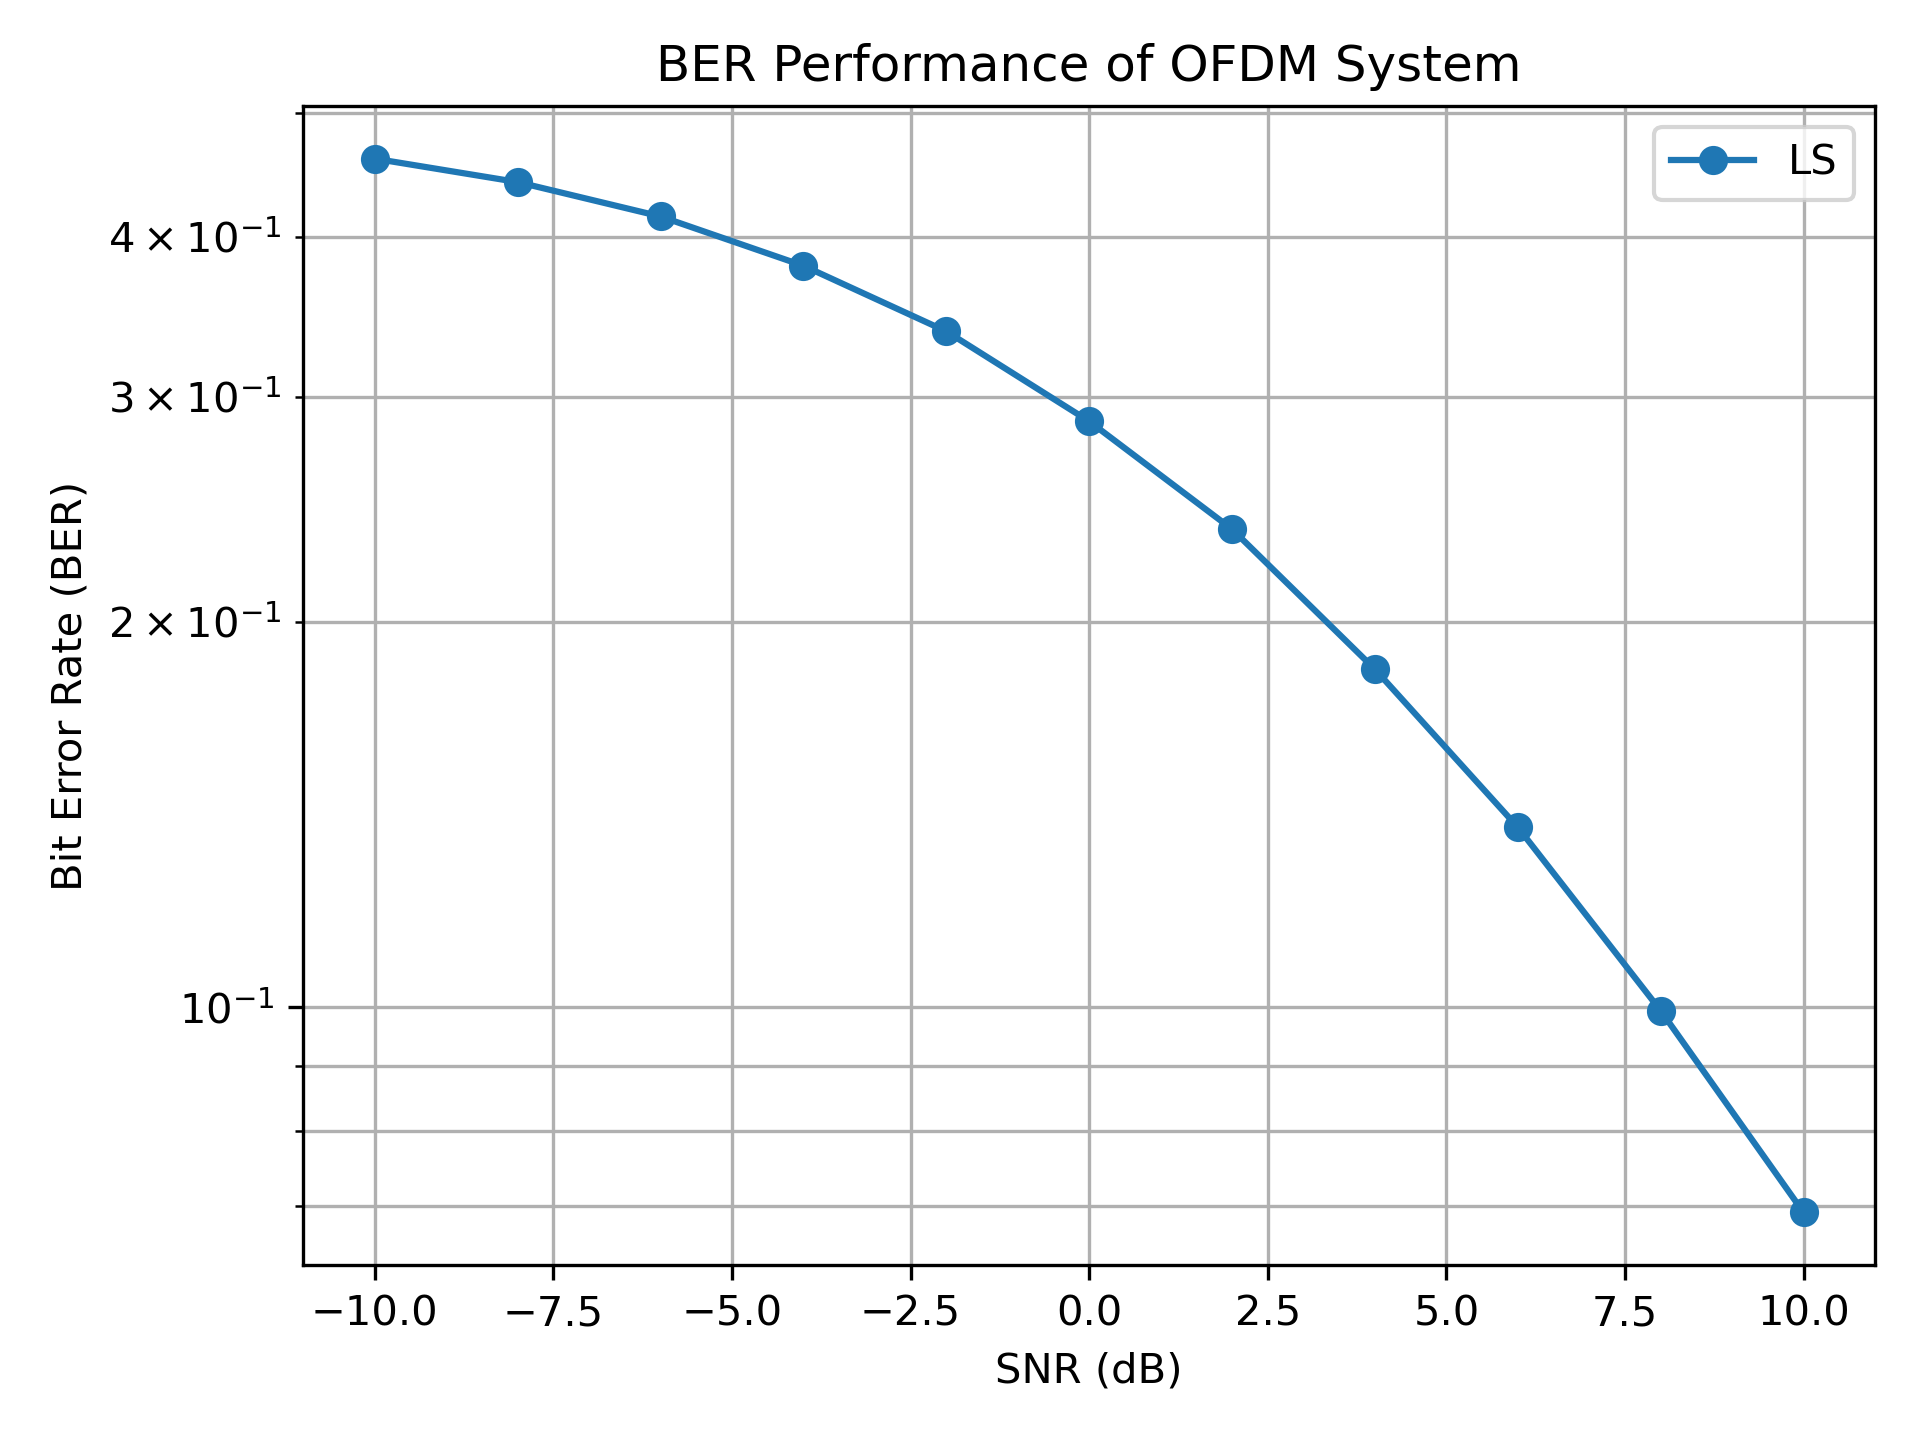
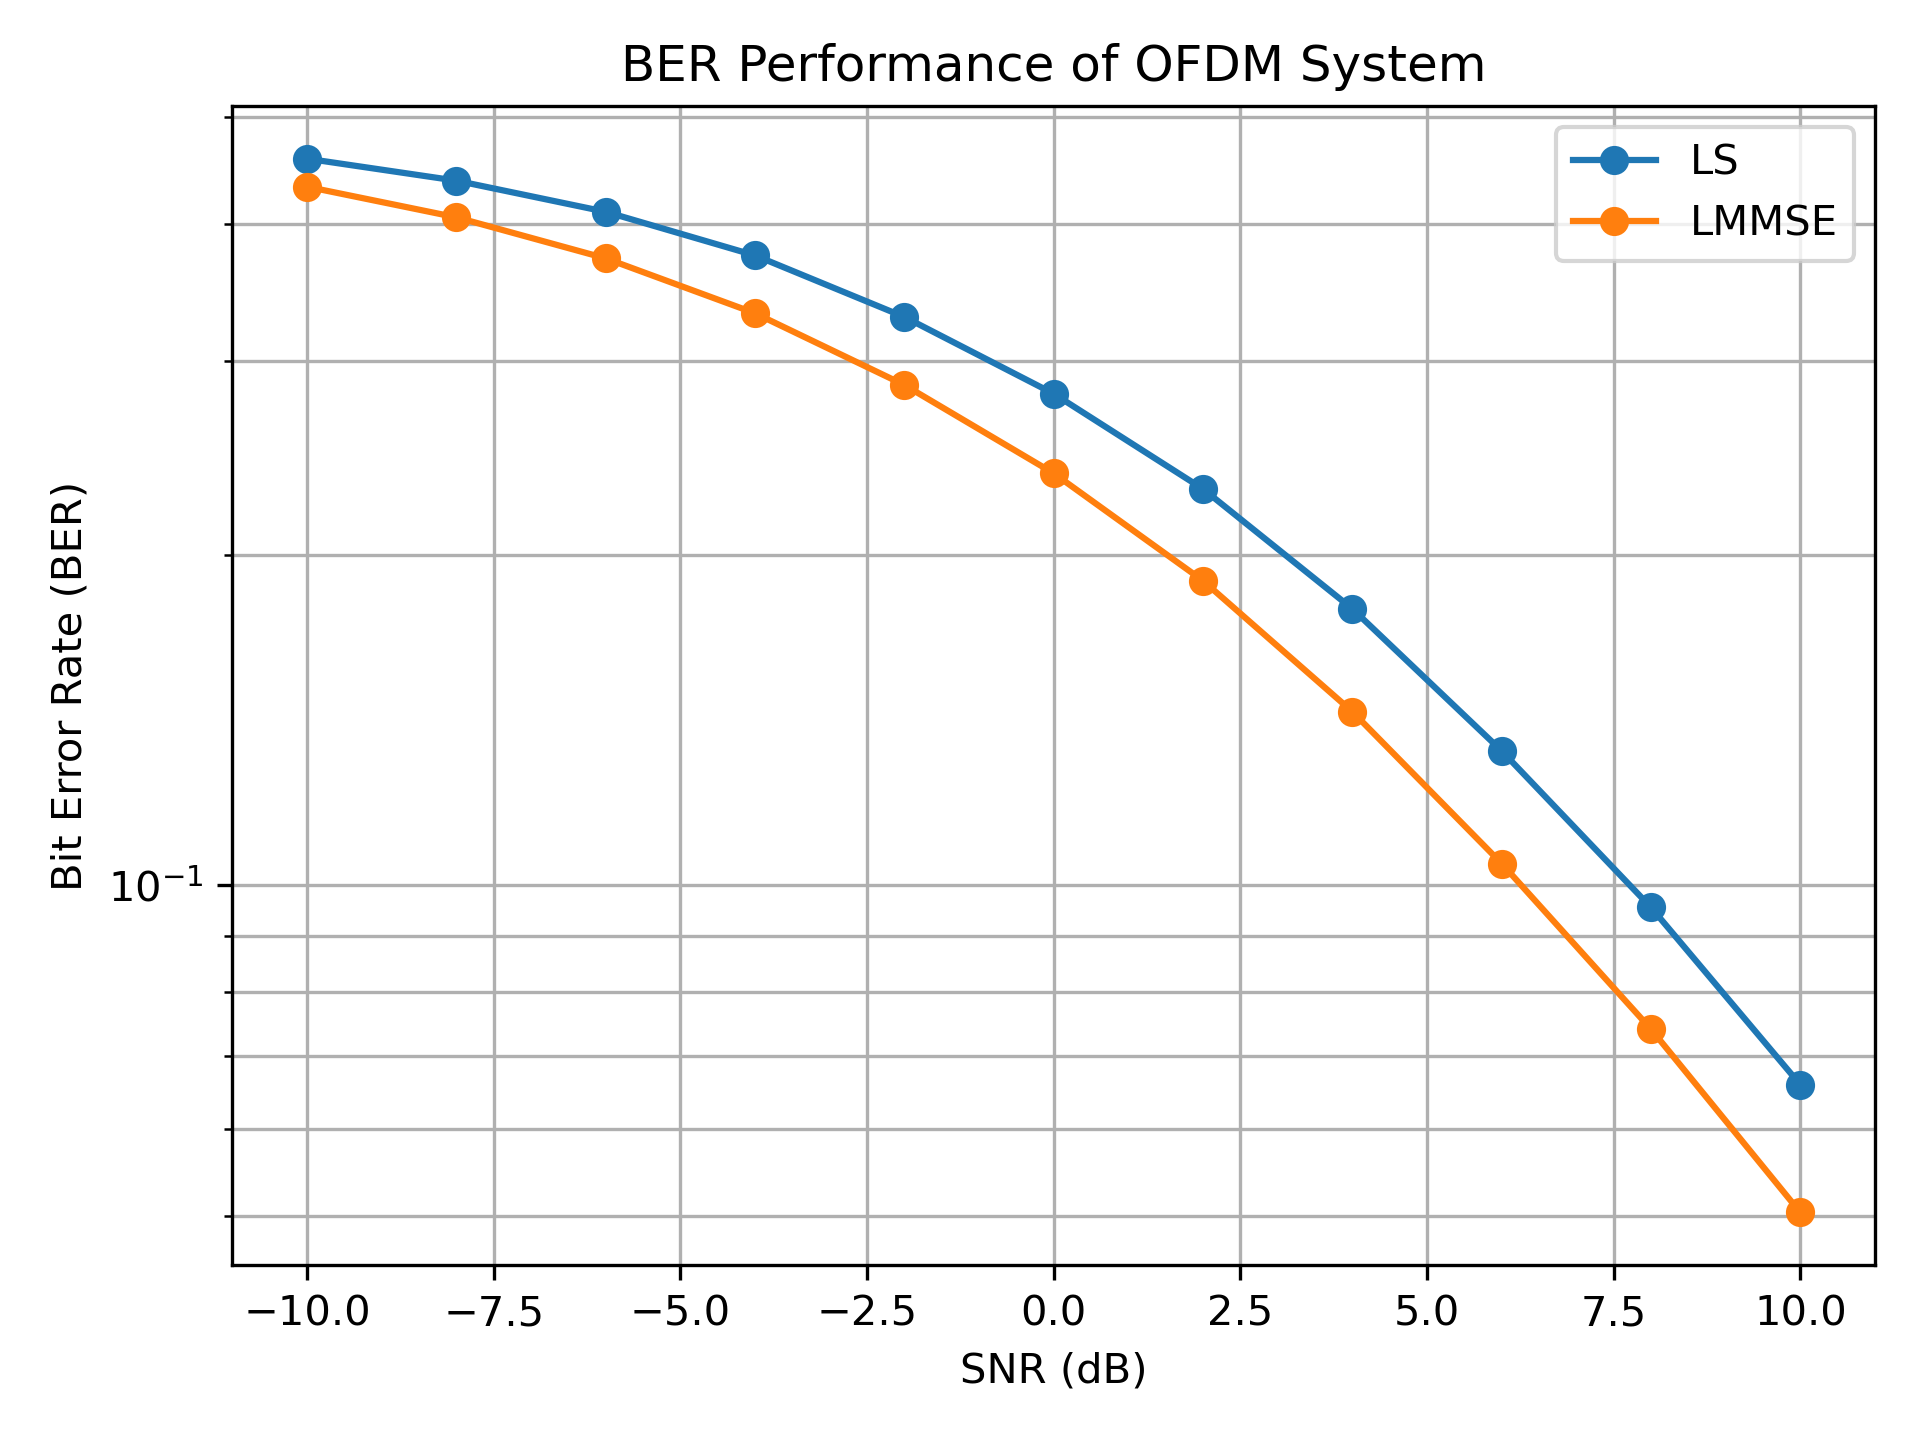
add compare results with LMMSE

diff --git a/E2E_OFDM/main.py b/E2E_OFDM/main.py
@@ -14,9 +14,9 @@ if __name__ == '__main__':
     class OFDMconfig:
         NumSubCarrier: int = 64
         TotalNumBlock: int = 10000
-        NumPilotPerBlock: int = 16
+        NumPilotPerBlock: int = 32
         QAMModulation: QAM_MODULATION = QAM_MODULATION.QPSK_GRAY
-        LengthCP: int = 4
+        LengthCP: int = 8
         SNR: np.ndarray = np.arange(-10,11,2)
         BlockConfiguration: BlockConfig = BlockConfig(
             NumSubCarrier = NumSubCarrier, 
@@ -26,7 +26,7 @@ if __name__ == '__main__':
         )
         ChannelBlockConfig = ChannelConfig(
             Model = CHANNEL_MODEL.RAYLEIGH,
-            NumTap = 3,
+            NumTap = 5,
             RegenChannel = 5
         )
         Estimator: CHANNEL_ESTIMATOR = CHANNEL_ESTIMATOR.LS
@@ -53,12 +53,13 @@ if __name__ == '__main__':
 
         def process(self, OFDMSymbols: np.ndarray, OFDMconfig) -> tuple:
             ChannelOutput = self.ChannelGenerator.process(OFDMSymbols, OFDMconfig.NumSubCarrier)
-            ChannelsFreq = self.ChannelGenerator.Channels_feq
             ReceivedSignals = []
             for snr in OFDMconfig.SNR:
                 ReceivedSignals.append(self.NoiseMixer.process(ChannelOutput, snr))
             ReceivedSignals = np.stack(ReceivedSignals, axis=0)
-            return ReceivedSignals, ChannelsFreq
+            OFDMconfig.VarNoises = np.stack(self.NoiseMixer.VarNoises, axis=0)
+            OFDMconfig.ChannelsFreqDomain = self.ChannelGenerator.Channels_feq
+            return ReceivedSignals, OFDMconfig
         
     class Receiver():
         def __init__(self, config) -> None:
@@ -78,7 +79,12 @@ if __name__ == '__main__':
                 # Channel Estimation #
                 ReceivedPilots = np.where(PilotIndices, ReceivedSymbols, 0)
                 TransmittedPilots = np.where(PilotIndices, OFDMconfig.TransmittedSymbols, 0)
-                EstimatedChannel = self.ChannelEstimator.process(ReceivedPilots, TransmittedPilots)
+                metadata = {
+                    "VarNoise": OFDMconfig.VarNoises[snr_ind],
+                    "ChannelsFreqDomain": OFDMconfig.ChannelsFreqDomain,
+                    "LengthCP": OFDMconfig.LengthCP
+                }
+                EstimatedChannel = self.ChannelEstimator.process(ReceivedPilots, TransmittedPilots, metadata)
                 EstimatedChannel = self.ChannelInterpolator.process(EstimatedChannel)
                 EstimatedChannels.append(EstimatedChannel)
                 # Equalization #
@@ -104,13 +110,13 @@ if __name__ == '__main__':
             logging.info("Initialize OFDM system")
             OFDMSymbols, DataBits, config = self.Transmitter.process(self.OFDMconfig)
             logging.info("Transmitted signals")
-            ReceivedSignals, ChannelFreqDomain = self.ChannelBlock.process(OFDMSymbols, config)
+            ReceivedSignals, config = self.ChannelBlock.process(OFDMSymbols, config)
             logging.info("Received signals and start recovering signal")
             EstimatedBits, EstimatedChannels = self.Receiver.process(ReceivedSignals, config)
 
             # Duplicate for each SNR
             DataBits = np.tile(DataBits, (len(self.OFDMconfig.SNR),1,1))
-            ChannelFreqDomain = np.tile(ChannelFreqDomain, (len(self.OFDMconfig.SNR),1,1))
+            ChannelFreqDomain = np.tile(config.ChannelsFreqDomain, (len(self.OFDMconfig.SNR),1,1))
 
             EstimatedData = ExperimentData(
                 Bits=EstimatedBits, 
@@ -121,10 +127,38 @@ if __name__ == '__main__':
                 Channel=ChannelFreqDomain
             )
             results = self.Evaluater.process(EstimatedData, GroundTruthData)
+            return results
 
-            logging.info("Visualizing results")
-            self.Plotter.plot_BER(self.OFDMconfig.SNR, results.BER, save_fig_name='results/BER.png')            
-            self.Plotter.plot_NMSE(self.OFDMconfig.SNR, results.ChannelNMSE, save_fig_name='results/NMSE.png')            
+    totalconfig = [
+        OFDMconfig(Estimator=CHANNEL_ESTIMATOR.LS),
+        OFDMconfig(Estimator=CHANNEL_ESTIMATOR.LMMSE)
+    ]
 
-    system = OFDMSystem(OFDMconfig)
-    system.run()
+    BERs = []
+    NMSEs = []
+    for k in range(len(totalconfig)):
+        system = OFDMSystem(totalconfig[k])
+        result = system.run()
+        BERs.append(result.BER)
+        NMSEs.append(result.ChannelNMSE)
+
+    MergedResults = {
+        "BERs": np.stack(BERs, axis=0),
+        "ChannelNMSEs": np.stack(NMSEs, axis=0)
+    }
+
+    logging.info("Visualizing results")
+    CurvesPlotter = Plotter()
+    labels = ["LS", "LMMSE"]
+    CurvesPlotter.plot_BER(
+        SNR=OFDMconfig.SNR, 
+        BER=MergedResults["BERs"], 
+        label=labels,
+        save_fig_name='results/BER.png'
+    )
+    CurvesPlotter.plot_NMSE(
+        SNR=OFDMconfig.SNR, 
+        NMSE=MergedResults["ChannelNMSEs"], 
+        label=labels,
+        save_fig_name='results/NMSE.png'
+    )            

diff --git a/E2E_OFDM/Channels.py b/E2E_OFDM/Channels.py
@@ -24,12 +24,16 @@ class Channel(ABC):
         ...
 
 class NoiseMixer():
+    def __init__(self) -> None:
+        self.VarNoises = []
+
     def process(self, signal: np.ndarray, SNR: float) -> np.ndarray:
         SNRlinear = 10 ** (SNR / 10)
         SignalPower = np.mean(np.abs(signal) ** 2, axis=0)
         NoisePower = SignalPower / SNRlinear
         Noise = np.dot((np.random.randn(signal.shape[0], signal.shape[1]) + 1j * np.random.randn(signal.shape[0], signal.shape[1])), np.diag(np.sqrt(NoisePower / 2)))
         self.Noise = Noise
+        self.VarNoises.append(np.diag(NoisePower))
         ChannelOutput = signal + Noise
         return ChannelOutput
 
@@ -66,32 +70,11 @@ class AWGNChannel(Channel):
         ChannelOutput = signal
         return ChannelOutput
     
-class AWGNChannelStandAlone(Channel):
-    def __init__(self):
-        super().__init__()
-        self.Channels = np.ndarray(1)
-        self.NoiseGenerator = NoiseMixer()
-
-    def process(self, signal: np.ndarray, SNR: float) -> np.ndarray:
-        ChannelOutput, Noise = self.NoiseGenerator.process(signal, SNR)
-        return ChannelOutput
-    
-# class NoDistortionChannel(Channel):
-#     def __init__(self):
-#         super().__init__()
-#         self.Channel = np.ndarray(1)
-
-#     def process(self, signal: np.ndarray) -> np.ndarray:
-#         ChannelOutput = signal
-#         return ChannelOutput
-    
 def SelectChannelModel(config: ChannelConfig) -> Channel:
     if config.Model == CHANNEL_MODEL.RAYLEIGH: 
         return RayleighChannel(config)
     elif config.Model == CHANNEL_MODEL.AWGN: 
-        return AWGNChannel()  # Noise will be added later
-    # elif config.Model == CHANNEL_MODEL.NODISTORTION: 
-    #     return NoDistortionChannel()
+        return AWGNChannel() 
     else: raise ValueError("Unsuport channel model")
 
 if __name__ == '__main__':

diff --git a/E2E_OFDM/ChannelEstimators.py b/E2E_OFDM/ChannelEstimators.py
@@ -10,12 +10,12 @@ class CHANNEL_ESTIMATOR(Enum):
 class Estimator(ABC):
 
     @abstractmethod
-    def process(self, Rxsignal: np.ndarray, pilot: np.ndarray) -> np.ndarray:
+    def process(self, Rxsignal: np.ndarray, pilot: np.ndarray, metadata) -> np.ndarray:
         ...
     
 class LSEstimator(Estimator):
 
-    def process(self, RxSignal: np.ndarray, Pilot: np.ndarray) -> np.ndarray:
+    def process(self, RxSignal: np.ndarray, Pilot: np.ndarray, metadata) -> np.ndarray:
         
         # A = Pilot
         # temp = torch.linalg.pinv(torch.conj(A.T) @ A) @ torch.conj(A.T)
@@ -41,10 +41,23 @@ class LSEstimator(Estimator):
         return EstimatedChannel
     
 class LMMSEEstimator(Estimator):
-    def process(self, RxSignal: np.ndarray, Pilot: np.ndarray) -> np.ndarray:
-        a = 2
+    def process(self, RxSignal: np.ndarray, Pilot: np.ndarray, metadata) -> np.ndarray:
+        LengthCP = metadata["LengthCP"]
+        VarNoise = metadata["VarNoise"]
+        ActualChan = metadata["ChannelsFreqDomain"]
+        ActualChan = ActualChan[:, :, np.newaxis]
+        Pilot = Pilot[:, :, np.newaxis] * np.eye(Pilot.shape[1])
 
-        EstimatedChannel = RxSignal + Pilot   # to be edited
+        mean_h = np.mean(ActualChan, axis=0)
+        R_hh = np.mean(ActualChan @ np.transpose(ActualChan,(0,2,1)).conj(), axis=0)
+        NoisePower = VarNoise[LengthCP:LengthCP+RxSignal.shape[1],LengthCP:LengthCP+RxSignal.shape[1]]
+
+        EstimatedChannel = np.zeros_like(RxSignal, dtype=complex)
+        for i in range(RxSignal.shape[0]):
+            X = Pilot[i]
+            y = RxSignal[i].reshape(-1,1)
+            THISEstimatedChannel = mean_h + R_hh @ X.conj().T @ np.linalg.inv(X @ R_hh @ X.conj().T + NoisePower) @ (y - X @ mean_h)
+            EstimatedChannel[i] = THISEstimatedChannel.reshape(-1)
         return EstimatedChannel
 
 

diff --git a/E2E_OFDM/util.py b/E2E_OFDM/util.py
@@ -2,11 +2,11 @@ import logging
 import matplotlib.pyplot as plt
 
 class Plotter():
-    def plot_BER(self, SNR, BER, save_fig_name):
+    def plot_BER(self, SNR, BER, label, save_fig_name):
         plt.figure()
 
-        plt.plot(SNR, BER, marker='o', label='LS')
-        # plt.plot(snr_list, ber_lmmse, marker='s', label='LMMSE')
+        for i in range(len(label)):
+            plt.plot(SNR, BER[i], marker='o', label=label[i])
 
         plt.yscale('log')
         plt.xlabel('SNR (dB)')
@@ -14,23 +14,23 @@ class Plotter():
         plt.title('BER Performance of OFDM System')
 
         plt.grid(True, which='both')
-        plt.legend(['LS'])
+        plt.legend(label)
         plt.tight_layout()
 
         plt.savefig(save_fig_name, dpi=300)
 
-    def plot_NMSE(self, SNR, NMSE, save_fig_name):
+    def plot_NMSE(self, SNR, NMSE, label, save_fig_name):
         plt.figure()
 
-        plt.plot(SNR, NMSE, marker='o', label='LS')
-        # plt.plot(snr_list, nmse_lmmse, marker='s', label='LMMSE')
+        for i in range(len(label)):
+            plt.plot(SNR, NMSE[i], marker='o', label=label[i])
 
         plt.xlabel('SNR (dB)')
         plt.ylabel('NMSE (dB)')
         plt.title('Channel Estimation NMSE')
 
         plt.grid(True)
-        plt.legend(['LS'])
+        plt.legend(label)
         plt.tight_layout()
 
         plt.savefig(save_fig_name, dpi=300)

diff --git a/E2E_OFDM/EvaluationMetric.py b/E2E_OFDM/EvaluationMetric.py
@@ -1,12 +1,11 @@
 import numpy as np
 from abc import ABC, abstractmethod
 from dataclasses import dataclass
-from typing import Optional
 
 @dataclass
 class EvaluationResults:
-    BER: Optional[np.ndarray] = None
-    ChannelNMSE: Optional[np.ndarray] = None
+    BER: np.ndarray
+    ChannelNMSE: np.ndarray
 
 @dataclass
 class ExperimentData:
@@ -46,8 +45,9 @@ class TotalEvaluators:
             TotalBER.append(BER_)
             TotalChannelNMSE.append(ChannelNMSE_)
         
-        results = EvaluationResults()
-        results.BER = np.array(TotalBER)
-        results.ChannelNMSE = np.array(TotalChannelNMSE)
+        results = EvaluationResults(
+            BER=np.array(TotalBER),
+            ChannelNMSE=np.array(TotalChannelNMSE)
+        )
         return results
     
